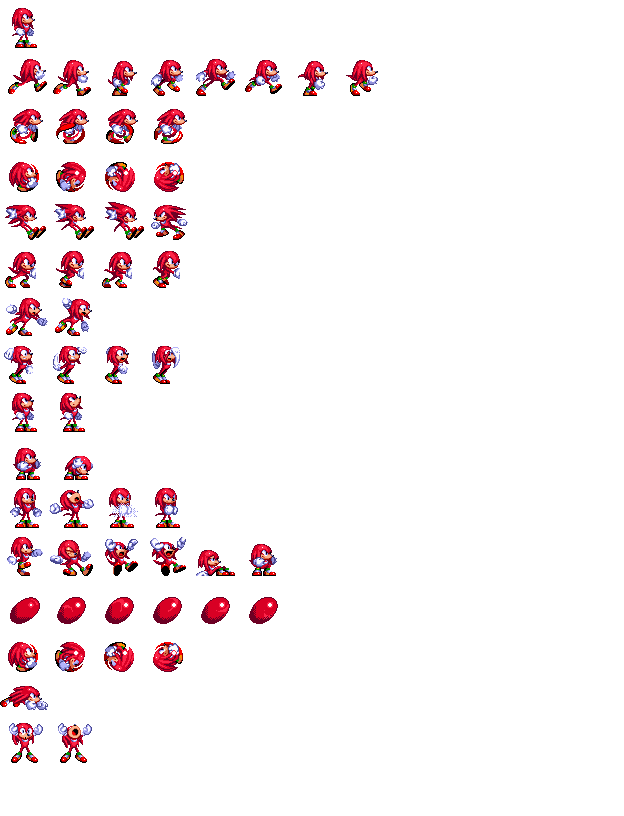
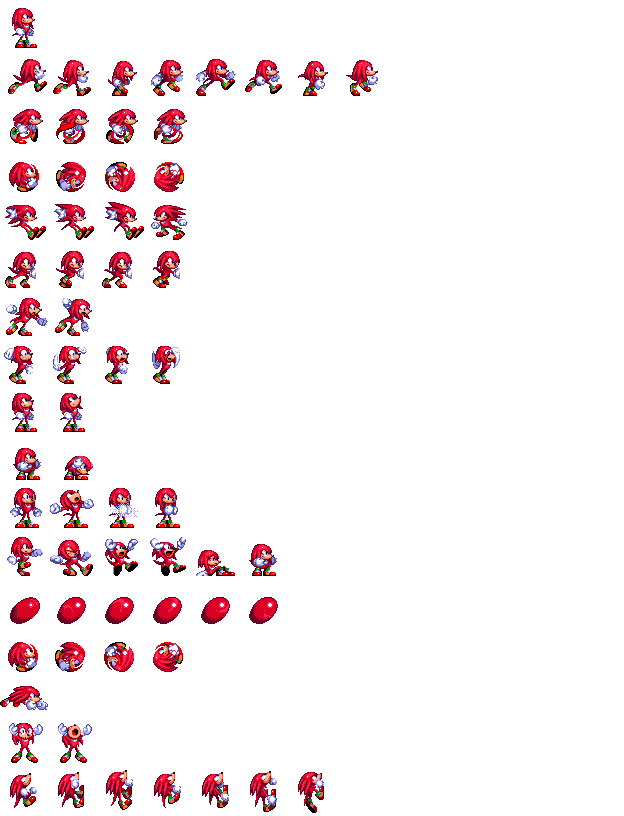
knux can climg

diff --git a/scripts/player/player_control.c b/scripts/player/player_control.c
@@ -19,7 +19,7 @@ void flip(player *p, int direction)
 
 void directional_key(player *p, int dir, sfBool released, game *g)
 {
-    if (g->is_runner == sfFalse) {
+    if (g->is_runner == sfFalse && p->is_climbing == sfFalse) {
         if (released == sfFalse) {
             if (p->speed_x == 0) {
                 p->is_turning = sfFalse;
@@ -44,7 +44,7 @@ void do_special(player *p)
         if (p->is_flying == sfFalse)
             p->cooldown = 150;
         if (p->cooldown > 0)
-            p->speed_y = -2;
+            p->speed_y = -5;
         p->is_flying = sfTrue;
     }
     if (p->character == 'k'
@@ -52,16 +52,30 @@ void do_special(player *p)
         p->is_gliding = sfTrue;
 }
 
-void do_jump(player *p)
+void end_climbing(player *p, game *g, sfBool jump)
+{
+    if (jump == sfFalse) {
+        p->obj->pos.x += 40 * p->direction;
+        p->obj->pos.y += 40 * p->direction;
+        p->speed_x = 0;
+    }
+    p->is_climbing = sfFalse;
+    directional_key(p, p->direction, sfTrue, g);
+}
+
+void do_jump(player *p, game *g)
 {
     float jump_speed = 10;
     if (p->character == 'k')
         jump_speed = 8;
-    if (p->is_grounded == sfTrue) {
+    if (p->is_grounded == sfTrue || p->is_climbing == sfTrue) {
+        if (p->is_climbing == sfTrue)
+            end_climbing(p, g, sfTrue);
         p->is_grounded = sfFalse;
         p->is_dashing = sfFalse;
         p->is_jumping = sfTrue;
         p->speed_y -= jump_speed;
+        sfMusic_stop(p->sound[JUMP]);
         sfMusic_play(p->sound[JUMP]);
     } else if (p->is_jumping == sfTrue)
         do_special(p);
@@ -73,6 +87,14 @@ void player_release_key(game *g, player *p)
         directional_key(p, 1, sfTrue, g);
     if (g->event.key.code == sfKeyLeft && p->direction == -1)
         directional_key(p, -1, sfTrue, g);
+    if (g->event.key.code == sfKeyUp && p->is_climbing == sfTrue) {
+        if (p->speed_y < 0)
+            p->speed_y = 0;
+    }
+    if (g->event.key.code == sfKeyDown && p->is_climbing == sfTrue) {
+        if (p->speed_y > 0)
+            p->speed_y = 0;
+    }
     if (g->event.key.code == sfKeyUp)
         if (p->is_charging == sfTrue) {
             p->speed_x = 10;
@@ -99,10 +121,16 @@ void player_keyboard_events(game *g, player *p)
             directional_key(p, 1, sfFalse, g);
         if (g->event.key.code == sfKeyLeft)
             directional_key(p, -1, sfFalse, g);
-        if (g->event.key.code == sfKeyS)
+        if (p->is_climbing == sfTrue) {
+            if (g->event.key.code == sfKeyUp)
+                p->speed_y = -2;
+            if (g->event.key.code == sfKeyDown)
+                p->speed_y = 2;
+        }
+        if (g->event.key.code == sfKeyS) {
             if (p->anim_state != CROUCHING && p->anim_state != LOOKING
             && p->anim_state != SPINNING && p->is_charging == sfFalse)
-                do_jump(p);
+                do_jump(p, g);
             else {
                 if (p->anim_state == CROUCHING) {
                     sfMusic_stop(p->sound[SPIN]);
@@ -117,6 +145,7 @@ void player_keyboard_events(game *g, player *p)
                 p->is_crouching = sfFalse;
                 p->is_looking = sfFalse;
             }
+        }
         if (g->event.key.code == sfKeyUp && p->is_grounded && p->speed_x == 0)
             p->is_looking = sfTrue;
         if (g->event.key.code == sfKeyDown && p->is_grounded)

diff --git a/scripts/player/collision.c b/scripts/player/collision.c
@@ -22,9 +22,12 @@ void camera_movement(player *p, game *g)
     if (p->is_dying == sfTrue)
         return;
     if (p->obj->pos.y <= g->camera_pan.y + W_H / 4)
-        g->camera_speed.y = -10;
+        if (p->is_climbing == sfTrue)
+            g->camera_speed.y = p->speed_y;
+        else
+            g->camera_speed.y = -10;
     if (p->obj->pos.y >= g->camera_pan.y + W_H / 2)
-        if (p->is_gliding == sfTrue)
+        if (p->is_gliding == sfTrue || p->is_climbing == sfTrue)
             g->camera_speed.y = p->speed_y;
         else
             g->camera_speed.y = 10;
@@ -81,22 +84,36 @@ void wall_collision(player *p, game *g)
 {
     p->can_move = sfTrue;
     int rnd_pos = p->map_pos.x;
-    if (is_solid(g->map[p->map_pos.y][rnd_pos + 1]) == 0
-    && p->obj->pos.x >= rnd_pos * 100 + 30) {
-        p->obj->pos.x = rnd_pos * 100 + 30;
-        if (p->direction == 1) {
-            p->can_move = sfFalse;
-            p->speed_x = 0;
+    if (is_solid(g->map[p->map_pos.y][rnd_pos + 1]) == 0) {
+        if (p->obj->pos.x >= rnd_pos * 100 + 30) {
+            p->obj->pos.x = rnd_pos * 100 + 30;
+            if (p->direction == 1) {
+                if (p->is_gliding == sfTrue) {
+                    if (p->is_climbing == sfFalse)
+                        p->speed_y = 0;
+                    p->is_climbing = sfTrue;
+                }
+                p->can_move = sfFalse;
+                p->speed_x = 0;
+            }
         }
-    }
+    } else if (p->direction == 1 && p->is_climbing == sfTrue)
+        end_climbing(p, g, sfFalse);
     if (p->obj->pos.x >= rnd_pos + 50)
         rnd_pos++;
-    if (is_solid(g->map[p->map_pos.y][rnd_pos - 1]) == 0
-    && p->obj->pos.x <= rnd_pos * 100 - 30) {
-        p->obj->pos.x = rnd_pos * 100 - 30;
-        if (p->direction == -1) {
-            p->can_move = sfFalse;
-            p->speed_x = 0;
+    if (is_solid(g->map[p->map_pos.y][rnd_pos - 1]) == 0) {
+        if (p->obj->pos.x <= rnd_pos * 100 - 30) {
+            p->obj->pos.x = rnd_pos * 100 - 30;
+            if (p->direction == -1) {
+                if (p->is_gliding == sfTrue) {
+                    if (p->is_climbing == sfFalse)
+                        p->speed_y = 0;
+                    p->is_climbing = sfTrue;
+                }
+                p->can_move = sfFalse;
+                p->speed_x = 0;
+            }
         }
-    }
+    } else if (p->direction == -1 && p->is_climbing == sfTrue)
+        end_climbing(p, g, sfFalse);
 }

diff --git a/scripts/player/player_create.c b/scripts/player/player_create.c
@@ -25,6 +25,7 @@ player create_knux_animations(player p)
     create_animation(&p.anim[DASHING], 4, 3, sfTrue);
     create_animation(&p.anim[SPEEDING], 1, 1, sfFalse);
     create_animation(&p.anim[DYING], 2, 10, sfFalse);
+    create_animation(&p.anim[SPECIAL], 7, 15, sfTrue);
     return p;
 }
 
@@ -46,7 +47,7 @@ player create_tails_animations(player p)
     create_animation(&p.anim[DASHING], 3, 3, sfTrue);
     create_animation(&p.anim[SPEEDING], 2, 3, sfTrue);
     create_animation(&p.anim[DYING], 3, 10, sfFalse);
-    create_animation(&p.anim[TIRING], 2, 6, sfTrue);
+    create_animation(&p.anim[SPECIAL], 2, 6, sfTrue);
     return p;
 }
 
@@ -110,6 +111,7 @@ player create_bools(player p)
     p.is_dying = sfFalse;
     p.is_flying = sfFalse;
     p.is_gliding = sfFalse;
+    p.is_climbing = sfFalse;
     return p;
 }
 

diff --git a/include/my_runner.h b/include/my_runner.h
@@ -27,7 +27,7 @@
     #define DASHING 13
     #define SPEEDING 14
     #define DYING 15
-    #define TIRING 16
+    #define SPECIAL 16
     #define JUMP 0
     #define BADNIK_DEATH 1
     #define BRAKE 2
@@ -156,9 +156,10 @@ typedef struct player {
     sfBool is_speeding;
     sfBool is_dropping;
     sfBool is_dying;
+    sfBool is_climbing;
     int is_edging;
     int anim_state;
-    animation anim[17];
+    animation anim[18];
     int running_anim;
     int anim_frame;
     sfMusic *sound[11];
@@ -240,5 +241,6 @@ void toggle_music(game *g);
 void stop_music(game *g);
 void switch_music(game *g, sfMusic *music);
 void camera_movement(player *p, game *g);
+void end_climbing(player *p, game *g, sfBool jump);
 
 #endif /* MY_RUNNER_H_ */

diff --git a/scripts/player/player_update.c b/scripts/player/player_update.c
@@ -47,6 +47,7 @@ void misc(player *p)
 void spring_collision(player *p, char *spring, game *g)
 {
     sfVector2i m_p = {p->map_pos.x, p->map_pos.y};
+    p->is_climbing = sfFalse;
     sfMusic_stop(p->sound[SPRING]);
     sfMusic_play(p->sound[SPRING]);
     switch (*spring) {
@@ -72,6 +73,10 @@ void spring_collision(player *p, char *spring, game *g)
 void update_player(player *p, game *g)
 {
     sfVector2i m_p = {p->map_pos.x, p->map_pos.y};
+    if (p->is_climbing == sfTrue) {
+        p->speed_x = 0;
+        p->is_gliding = sfFalse;
+    }
     if (g->score % 100000 == 0 && g->score != 0)
         update_lives(p, g);
     if (g->map[m_p.y][m_p.x] >= 100 && g->map[m_p.y][m_p.x] % 2 == 0)

diff --git a/scripts/animation.c b/scripts/animation.c
@@ -40,8 +40,10 @@ void special_anims(player *p)
     if (p->is_charging == sfTrue
     || p->is_flying == sfTrue || p->is_gliding == sfTrue)
         p->anim_state = SPEEDING;
+    if (p->is_climbing == sfTrue)
+        p->anim_state = SPECIAL;
     if (p->is_flying == sfTrue && p->cooldown < 10)
-        p->anim_state = TIRING;
+        p->anim_state = SPECIAL;
     if (p->is_dashing == sfTrue)
         p->anim_state = DASHING;
     if (p->is_hurt == sfTrue)

diff --git a/scripts/player/player_status.c b/scripts/player/player_status.c
@@ -66,7 +66,8 @@ void update_living(player *p, game *g)
     misc(p);
     movement(p, g);
     raycast(p, g);
-    gravity(p, g);
+    if (p->is_climbing == sfFalse)
+        gravity(p, g);
 }
 
 void update_unpaused(player *p, game *g)

diff --git a/scripts/player/player_actions.c b/scripts/player/player_actions.c
@@ -30,6 +30,7 @@ void do_death(player *p, game *g)
 
 void player_hit(player *p, game *g)
 {
+    p->is_climbing = sfFalse;
     p->speed_x = 0;
     if (g->rings > 0)
         do_damage(p, g);
